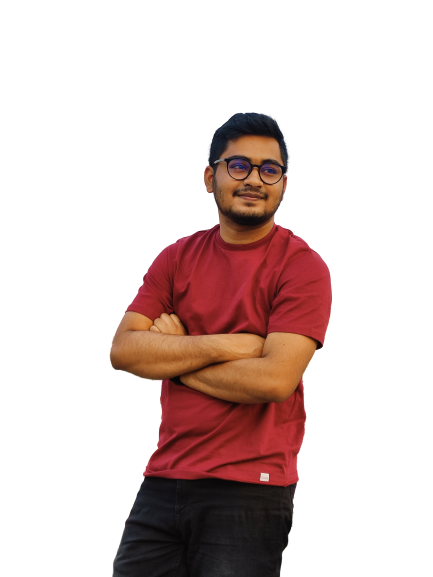
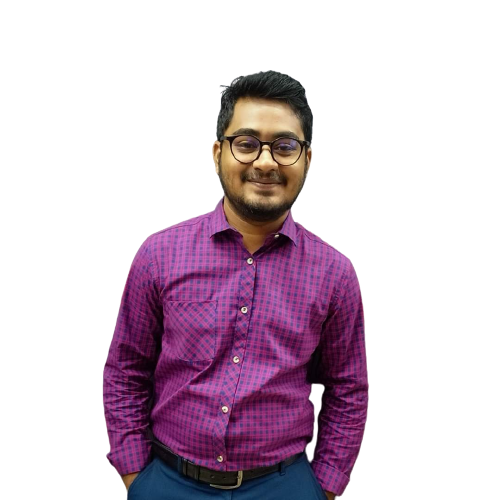
resume content add

diff --git a/index.html b/index.html
@@ -31,7 +31,7 @@
             </div>
             <!-- images section  -->
             <div>
-                <img class="profile-pic" src="./FB_IMG_1122020628698771149-removebg-preview.png" alt="">
+                <img class="profile-pic" src="./mrpaul.png" alt="">
             </div>
 
         </div>
@@ -67,7 +67,97 @@
         <section>
             <h3 class="section-title">What I do</h3>
             <p id="what-do" class="section-descrption">I have more than 10 years experience building software for clients all over the world. Below is a quick overview of my main technical skill sets and technologies i use. Want to find out more about my experience? Check out my online resume and project portfolio.</p>
+
+            <!-- skils section  -->
+
+            <div class="skills-container">
+
+                <div class="skill">
+                    <img src="./images/icons/js.png" alt="">
+                    <h3 class="skill-title">Vanilla JavaScript</h3>
+                    <p class="skill-description">List skill/technologies here. You can change the icon above to any of the 1500+ FontAwesome 5 free icons available. Aenean commodo ligula eget dolor.</p>
+                </div>
+                <div class="skill">
+                    <img src="./images/icons/react.png" alt="">
+                    <h3 class="skill-title">React</h3>
+                    <p class="skill-description">List skill/technologies here. You can change the icon above to any of the 1500+ FontAwesome 5 free icons available. Aenean commodo ligula eget dolor.</p>
+                </div>
+                <div class="skill">
+                    <img src="./images/icons/nodejs.png" alt="">
+                    <h3 class="skill-title">Node.js</h3>
+                    <p class="skill-description">List skill/technologies here. You can change the icon above to any of the 1500+ FontAwesome 5 free icons available. Aenean commodo ligula eget dolor.</p>
+                </div>
+                <div class="skill">
+                    <img src="./images/icons/mongo.png" alt="">
+                    <h3 class="skill-title">MongoDB</h3>
+                    <p class="skill-description">List skill/technologies here. You can change the icon above to any of the 1500+ FontAwesome 5 free icons available. Aenean commodo ligula eget dolor.</p>
+                </div>
+            </div>
+
+
         </section>
+
+                         <!-- resume section  -->
+
+        <section>
+            <h3 class="section-title">A Summary of My Resume</h3>
+
+            <div class="resume-container">
+
+                <div class="resume-column">
+                    <h3 class="resume-colmun-title">My Education</h3>
+
+                    <div class="resume-item">
+                        <h2 class="resume item title">Master in Computer Engineering</h2>
+                        <h3 class="resume-item-institute">Harvard University / 2015 - 2017</h3>
+                        <p class="resume-item-description">List skill/technologies here. You can change the icon above 
+                            to any of the 1500+ FontAwesome 5 free icons available. Aenean commodo ligula eget dolor.</p>
+                    </div>
+                    <hr>
+                    <div class="resume-item">
+                        <h2 class="resume item title">Master in Computer Engineering</h2>
+                        <h3 class="resume-item-institute">Harvard University / 2015 - 2017</h3>
+                        <p class="resume-item-description">List skill/technologies here. You can change the icon above 
+                            to any of the 1500+ FontAwesome 5 free icons available. Aenean commodo ligula eget dolor.</p>
+                    </div>
+                    <hr>
+                    <div class="resume-item">
+                        <h2 class="resume item title">Master in Computer Engineering</h2>
+                        <h3 class="resume-item-institute">Harvard University / 2015 - 2017</h3>
+                        <p class="resume-item-description">List skill/technologies here. You can change the icon above 
+                            to any of the 1500+ FontAwesome 5 free icons available. Aenean commodo ligula eget dolor.</p>
+                    </div>
+                </div>
+                <div class="resume-column">
+                    <h3 class="resume-colmun-title">My Experience</h3>
+                    <div class="resume-item">
+                        <h2 class="resume item title">Sr. Font End Developer</h2>
+                        <h3 class="resume-item-institute">Apple Inc / 2020 - Current</h3>
+                        <p class="resume-item-description">List skill/technologies here. You can change the icon above 
+                            to any of the 1500+ FontAwesome 5 free icons available. Aenean commodo ligula eget dolor.</p>
+                    </div>
+                    <hr>
+                    <div class="resume-item">
+                        <h2 class="resume item title">Jr. Font End Developer</h2>
+                        <h3 class="resume-item-institute">Dribbble Inc / 2018 - 2022</h3>
+                        <p class="resume-item-description">List skill/technologies here. You can change the icon above 
+                            to any of the 1500+ FontAwesome 5 free icons available. Aenean commodo ligula eget dolor.</p>
+                    </div>
+                    <hr>
+                    <div class="resume-item">
+                        <h2 class="resume item title">HTML Developer</h2>
+                        <h3 class="resume-item-institute">Adobe Inc / 2017 - 2018</h3>
+                        <p class="resume-item-description">List skill/technologies here. You can change the icon above 
+                            to any of the 1500+ FontAwesome 5 free icons available. Aenean commodo ligula eget dolor.</p>
+                    </div>
+                </div>
+            </div>
+
+        </section>
+        
+
+
+
     </main>
 
 </body>

diff --git a/style.css b/style.css
@@ -89,6 +89,10 @@ main{
     margin: 0 auto;
 }
 
+main section{
+    margin-top: 130px;
+}
+
 
 .section-title{
     color: #181818;
@@ -128,4 +132,33 @@ justify-content: space-around;
 
 #what-do{
     padding: 130px;
+}
+
+
+/* skill related work  */
+
+.skills-container{
+    display: flex;
+    gap: 24px;
+}
+
+
+.skill{
+    padding: 30px;
+    border-radius: 5px;
+    background: #FFF;
+    box-shadow: 0px 6px 50px 0px rgba(0, 0, 0, 0.06);    
+}
+
+.skill-description{
+    color: #757575;
+}
+
+
+/* resume section style  */
+
+.resume-colmun-title{
+    color:#474747;
+    font-size: 30px;
+    font-weight: 700;
 }
